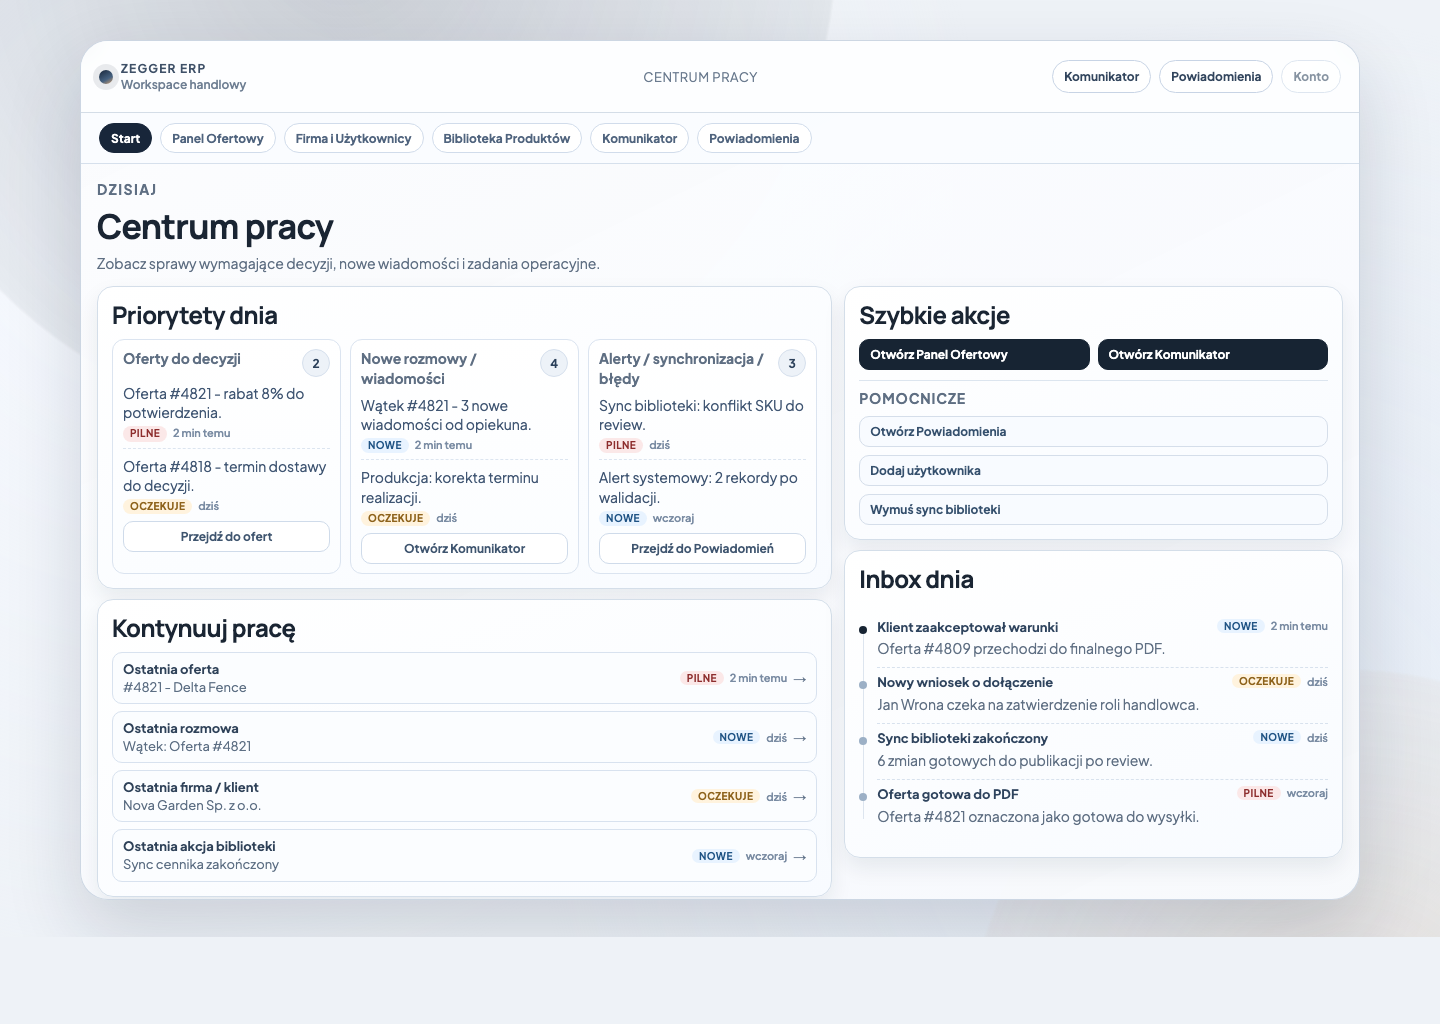
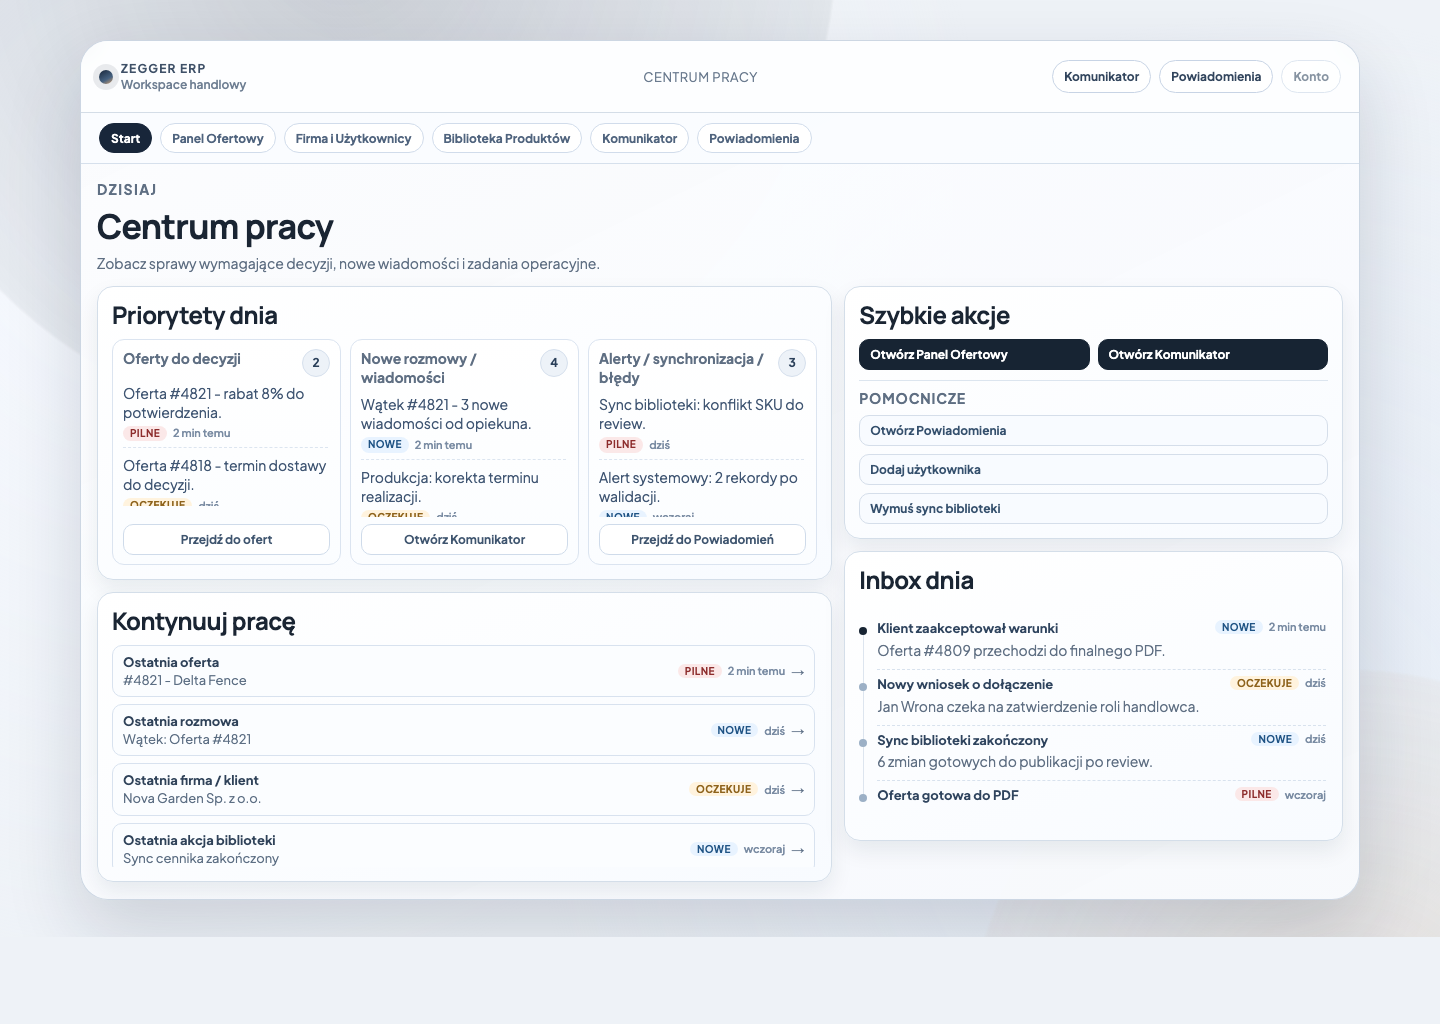
v13

diff --git a/prototype-ui/assets/css/prototype.css b/prototype-ui/assets/css/prototype.css
@@ -453,6 +453,10 @@ textarea {
   display: block;
 }
 
+.zgs-view[data-view="launcher"] {
+  padding-bottom: 10px;
+}
+
 .zgs-kicker {
   text-transform: uppercase;
   letter-spacing: 0.1em;
@@ -497,12 +501,13 @@ textarea {
   display: grid;
   grid-template-columns: minmax(0, 1.4fr) minmax(300px, 0.95fr);
   gap: 12px;
+  padding-bottom: 18px;
 }
 
 .zgs-start-main,
 .zgs-start-side {
   display: grid;
-  gap: 10px;
+  gap: 12px;
   align-content: start;
 }
 
@@ -518,8 +523,10 @@ textarea {
   background: linear-gradient(178deg, #ffffff, #fbfdff);
   padding: 9px 10px;
   display: grid;
+  grid-template-rows: auto minmax(0, 1fr) auto;
   gap: 7px;
   align-content: start;
+  min-height: 200px;
 }
 
 .zgs-start-priority-head {
@@ -553,6 +560,10 @@ textarea {
 
 .zgs-start-priority-list {
   gap: 5px;
+  max-height: 122px;
+  min-height: 0;
+  overflow: auto;
+  padding-right: 2px;
 }
 
 .zgs-start-priority-list li {
@@ -572,6 +583,10 @@ textarea {
 
 .zgs-start-item-text {
   color: #405673;
+  display: -webkit-box;
+  -webkit-line-clamp: 2;
+  -webkit-box-orient: vertical;
+  overflow: hidden;
 }
 
 .zgs-start-priority-cta {
@@ -590,6 +605,10 @@ textarea {
   list-style: none;
   display: grid;
   gap: 7px;
+  max-height: 230px;
+  min-height: 0;
+  overflow: auto;
+  padding-right: 2px;
 }
 
 .zgs-start-recent-item {
@@ -734,6 +753,10 @@ textarea {
   display: grid;
   gap: 6px;
   padding-left: 0;
+  max-height: 246px;
+  min-height: 0;
+  overflow: auto;
+  padding-right: 2px;
 }
 
 .zgs-start-timeline::before {
@@ -795,6 +818,12 @@ textarea {
   color: #5d7088;
   font-size: 13px;
   line-height: 1.3;
+}
+
+.zgs-start-resume,
+.zgs-start-inbox {
+  max-height: 290px;
+  grid-template-rows: auto minmax(0, 1fr);
 }
 
 .zgs-launcher-stream {
